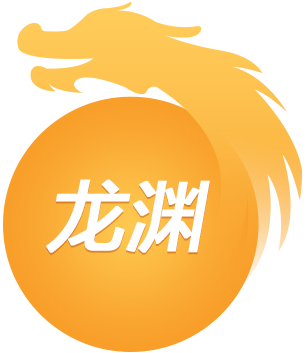
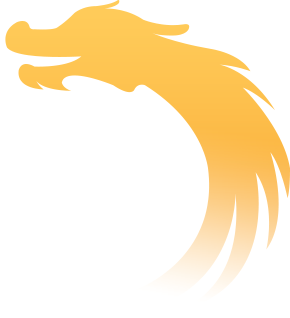
dragon move

diff --git a/radar/css/main.css b/radar/css/main.css
@@ -27,15 +27,41 @@
     left: 160px;
     top: 360px;
 }
-.dragon{
-    width: 307px;
-    height: 353px;
+.dragonball{
+    width: 256px;
+    height: 256px;
     position: absolute;
     z-index: 30;
-    left: 350px;
-    top: 80px;
-    background: url(images/dragon.png) no-repeat;
+    left: 355px;
+    top: 175px;
+    background: url(images/dragonball.png) no-repeat;
+    -webkit-animation-name: dragonball;
+    -webkit-animation-duration: 2s;
 }
+.dragon_c{
+    width: 256px;
+    height: 256px;
+    position: absolute;
+    z-index: 30;
+    left: 355px;
+    top: 175px;
+    background: url(images/dragon_c.png) no-repeat;
+    -webkit-animation-name: dragon_c;
+    -webkit-animation-iteration-count: 1;
+    -webkit-animation-duration: 2s;
+}
+.dragon{
+    width: 290px;
+    height: 318px;
+    position: absolute;
+    z-index: 30;
+    left: 8px;
+    top: -93px;
+    background: url(images/dragon.png) no-repeat;
+    -webkit-animation-name: dragon;
+    -webkit-animation-duration: 2s;
+}
+
 .wave{
     position: absolute;
     left: 670px;
@@ -101,6 +127,24 @@
 @-webkit-keyframes rotate {
     0% {-webkit-transform: rotate(0deg)}
     100% {-webkit-transform: rotate(360deg)}
+}
+@-webkit-keyframes dragonball {
+    0% {-webkit-transform: rotate(0deg)}
+    100% {-webkit-transform: rotate(-360deg)}
+}
+@-webkit-keyframes dragon {
+    0% {-webkit-transform: scale(.01);opacity: .2;}
+    100% {-webkit-transform: scale(1);opacity: 1;}
+}
+@-webkit-keyframes dragon_c {
+    0% {-webkit-transform: scale(.01);opacity: 0}
+    60% {-webkit-transform: scale(.01);opacity: 0}
+    70% {-webkit-transform: scale(.01);opacity: 1}
+    80% {-webkit-transform: scale(1.4);opacity: 1;}
+    85% {-webkit-transform: scale(.8);opacity: 1;}
+    90% {-webkit-transform: scale(1.2);opacity: 1;}
+    95% {-webkit-transform: scale(.9);opacity: 1;}
+    100% {-webkit-transform: scale(1);opacity: 1;}
 }
 .circle_weibo .circle{
     -webkit-animation-duration: 10s;

diff --git a/radar/index.html b/radar/index.html
@@ -34,15 +34,18 @@
             <div class="flow_video">
                 <div class="flow"></div>
             </div>
-            <div class="dragon"></div>
+            <div class="dragonball">
+                <div class="dragon"></div>
+            </div>
+            <div class="dragon_c"></div>
             <div class="wave">
                 <div class="wave1"></div>
                 <div class="wave2"></div>
                 <div class="wave3"></div>
             </div>
-            <div class="d3parent">
+            <!-- <div class="d3parent">
                 <div class="d3"></div>
-            </div>
+            </div> -->
 
             <div class="lotpeople">
                 <div class="peoplefocus1">
